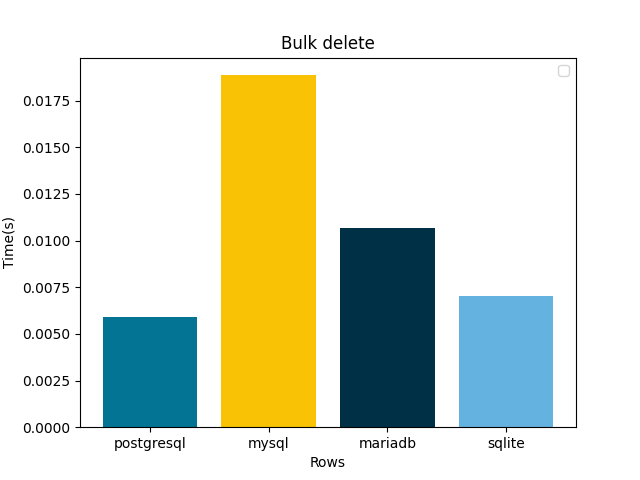
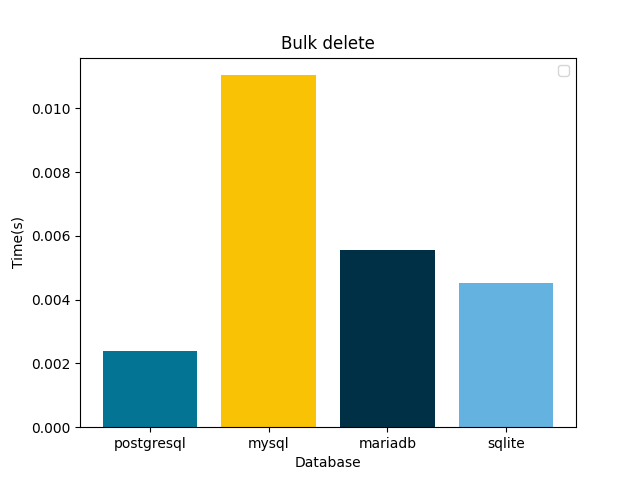
Readme update

diff --git a/tables/tests/test_checks.py b/tables/tests/test_checks.py
@@ -1,0 +1,33 @@
+from django.test.testcases import override_settings, TestCase
+from unittest.mock import patch
+from tables.check import CheckBulkDelete, CheckBulkInsert
+from tables.models import SimpleTable
+
+
+class TestCheck(TestCase):
+    @override_settings(ROWS_LIST=[2, 3, 4])
+    @patch('tables.check.bulk_delete.CheckBulkDelete.check_rows', return_value=1)
+    def test_check_all(self, *args):
+        check = CheckBulkDelete()
+        time_list = check.check_all()
+        self.assertListEqual(time_list, [
+            {'rows': 2, 'time': 1},
+            {'rows': 3, 'time': 1},
+            {'rows': 4, 'time': 1}
+        ])
+
+    def test_bulk_delete_create_rows(self):
+        check = CheckBulkDelete()
+        SimpleTable.objects.bulk_create((SimpleTable(name='22') for _ in range(3)))
+        check.create_rows(2)
+        self.assertEqual(SimpleTable.objects.all().count(), 2)
+
+    def test_bulk_delete(self):
+        check = CheckBulkDelete()
+        check.check_rows(2)
+        self.assertEqual(SimpleTable.objects.all().count(), 0)
+
+    def test_check_rows(self):
+        check = CheckBulkInsert()
+        check.check_rows(2)
+        self.assertEqual(SimpleTable.objects.all().count(), 2)

diff --git a/tables/check/delete.py b/tables/check/delete.py
@@ -4,9 +4,9 @@ from tables.check.base import CheckBase
 from tables.models import SimpleTable
 
 
-class CheckBulkDelete(CheckBase):
-    name = 'bulk_delete'
-    graph_title = 'Bulk delete'
+class CheckDelete(CheckBase):
+    name = 'delete'
+    graph_title = 'Delete'
 
     def create_rows(self, rows):
         SimpleTable.objects.all().delete()
@@ -15,7 +15,9 @@ class CheckBulkDelete(CheckBase):
 
     def check_rows(self, rows):
         self.create_rows(rows)
+        start_pk = SimpleTable.objects.all().order_by('id')[0].pk
         start_time = time()
-        SimpleTable.objects.all().delete()
+        for i in range(rows):
+            SimpleTable.objects.filter(pk=start_pk + i).delete()
         time_taken = time() - start_time
         return time_taken

diff --git a/tables/check/bulk_insert.py b/tables/check/bulk_insert.py
@@ -4,17 +4,13 @@ from tables.check.base import CheckBase
 from tables.models import SimpleTable
 
 
-def row_generator(rows):
-    for _ in range(rows):
-        yield SimpleTable(name='testname')
-
-
 class CheckBulkInsert(CheckBase):
     name = 'bulk_insert'
     graph_title = 'Bulk insert'
 
     def check_rows(self, rows):
         start_time = time()
-        SimpleTable.objects.bulk_create(row_generator(rows))
+        values = (SimpleTable(name='testname') for _ in range(rows))
+        SimpleTable.objects.bulk_create(values)
         time_taken = time() - start_time
         return time_taken

diff --git a/tables/check/__init__.py b/tables/check/__init__.py
@@ -1,8 +1,9 @@
 from tables.check.bulk_update import CheckBulkUpdate
+from tables.check.delete import CheckDelete
 from tables.check.insert import CheckInsert
 from tables.check.bulk_insert import CheckBulkInsert
 from tables.check.bulk_delete import CheckBulkDelete
 from tables.check.update import CheckUpdate
 
-ALL_CHECKS = (CheckInsert, CheckBulkInsert, CheckBulkDelete, CheckUpdate, CheckBulkUpdate)
+ALL_CHECKS = (CheckInsert, CheckBulkInsert, CheckBulkDelete, CheckUpdate, CheckBulkUpdate, CheckDelete)
 ALL_NAMES = [x.name for x in ALL_CHECKS]

diff --git a/benchmark/settings.py b/benchmark/settings.py
@@ -71,7 +71,7 @@ WSGI_APPLICATION = 'benchmark.wsgi.application'
 
 # Database
 # https://docs.djangoproject.com/en/3.2/ref/settings/#databases
-DB_ENGINE = os.getenv('DB_ENGINE', 'sqlite3')
+DB_ENGINE = os.getenv('DB_ENGINE', 'sqlite')
 DATABASES = {
     'default': {
         'ENGINE': 'django.db.backends.sqlite3',

diff --git a/tables/check/base.py b/tables/check/base.py
@@ -43,7 +43,7 @@ class CheckBase:
         my_colors = ('#047495', '#fac205', '#003045', '#63b2e0')
         fig, ax = plt.subplots()
         ax.set_ylabel('Time(s)')
-        ax.set_xlabel('Rows')
+        ax.set_xlabel('Database')
         index = []
         values = []
         for engine in settings.DB_ENGINES:

diff --git a/README.md b/README.md
@@ -6,35 +6,40 @@ Database benchmark with Django ORM
 - MariaDB
 - SQLite
 
-Compating databse operation perfomence using django ORM 
+Comparing database operation performance using django ORM.
 
-Postgreql vs MySQL vs MariaDB vs SQLite
+PostgreSQL vs MySQL vs MariaDB vs SQLite
 
 
 
 ## Insert performance comparison 
-Smaller is better Here *PostgreSQL* wins
+Tested 1000 row insert in all databases and calculated time is taken.
 
 ![Insert](media/graphs/insert.png)
 
 ## Bulk Insert performance comparison 
-Smaller is better Here *SQLite* wins
+Tested 1000 row bulk insert in all databases and calculated time is taken.
 
 ![Insert](media/graphs/bulk_insert.png)
 
 ## Bulk Delete performance comparison 
-Smaller is better Here *SQLite* wins
+Tested 1000 row delete in all databases and calculated time is taken.
+
+![Insert](media/graphs/delete.png)
+
+## Bulk Delete performance comparison 
+Tested 1000 row bulk delete in all databases and calculated time is taken.
 
 ![Insert](media/graphs/bulk_delete.png)
 
 ## Update performance comparison 
-Smaller is better Here *SQLite* wins
+Tested 1000 row update in all databases and calculated time is taken.
 
 ![Insert](media/graphs/update.png)
 
 
 ## Bulk update performance comparison 
-Smaller is better Here *SQLite* wins
+Tested 1000 row bulk update in all databases and calculated time is taken.
 
 ![Insert](media/graphs/bulk_update.png)
 
